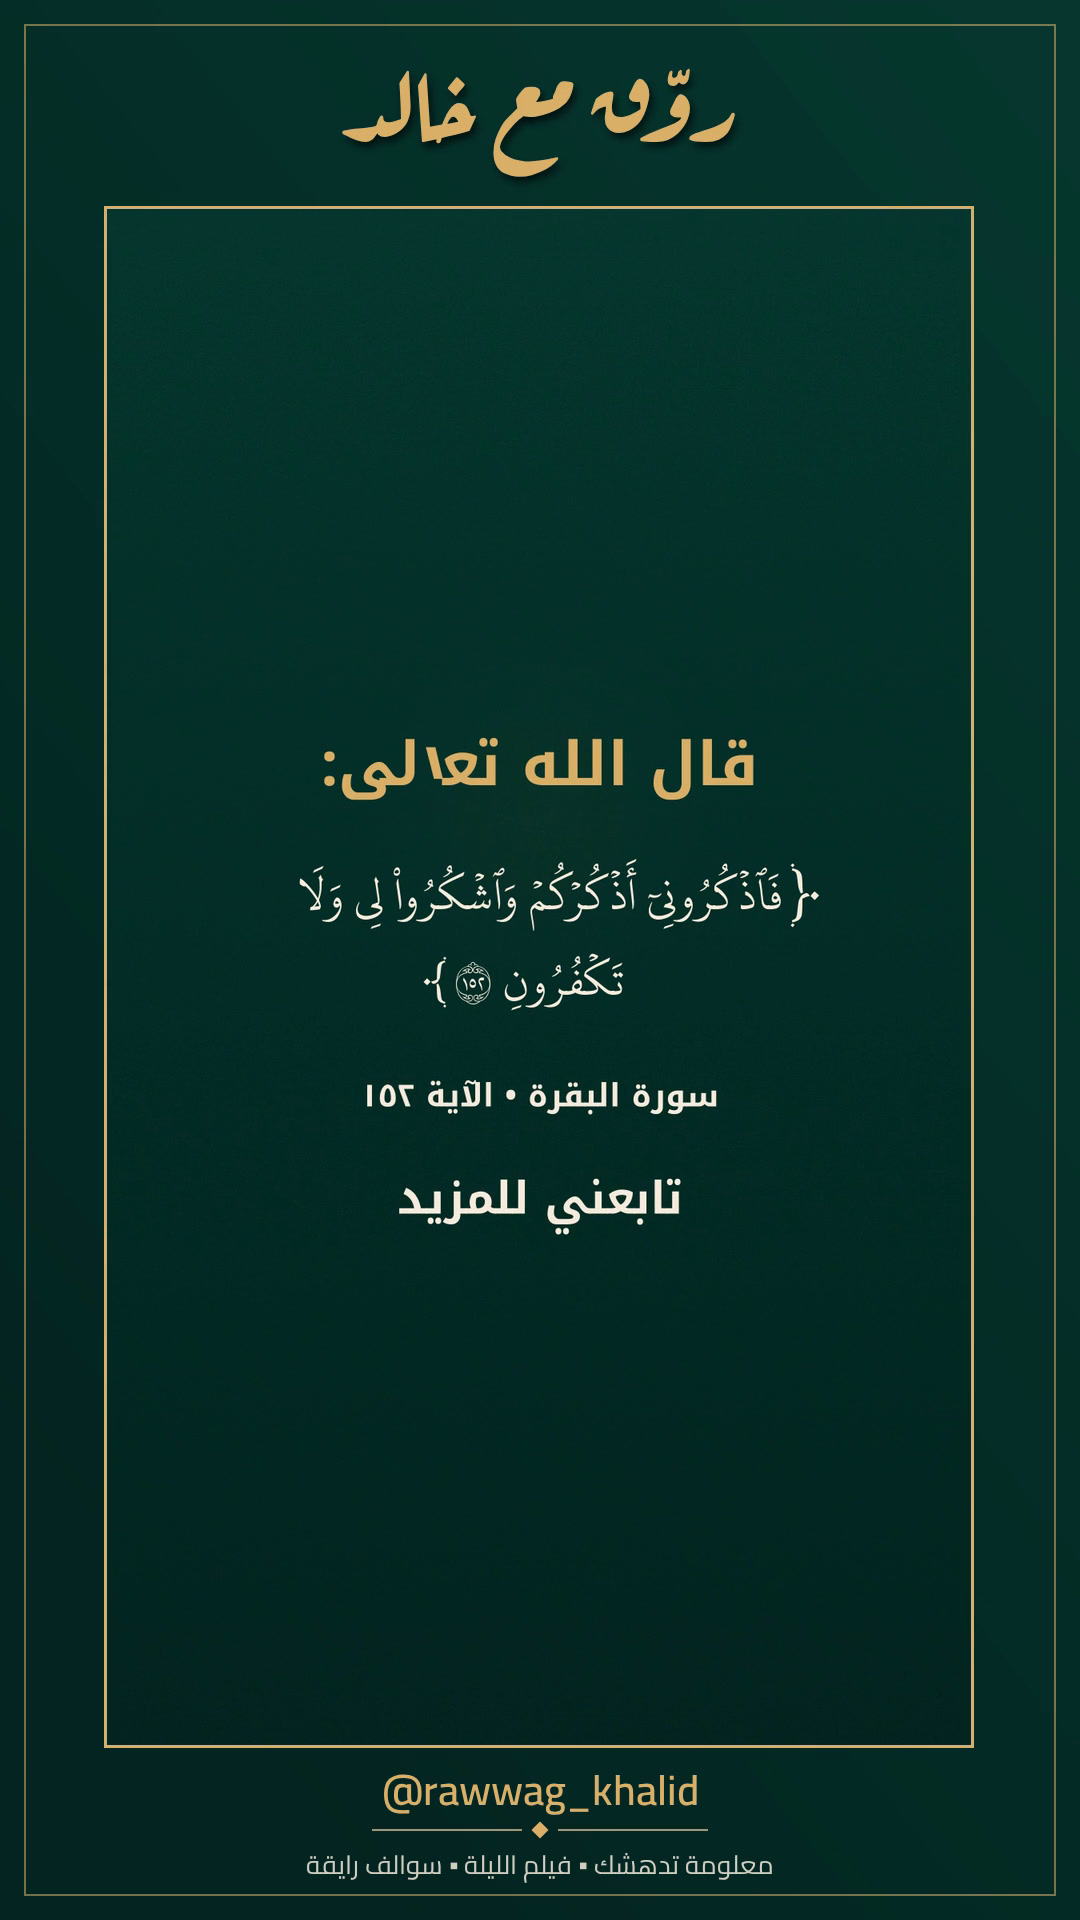
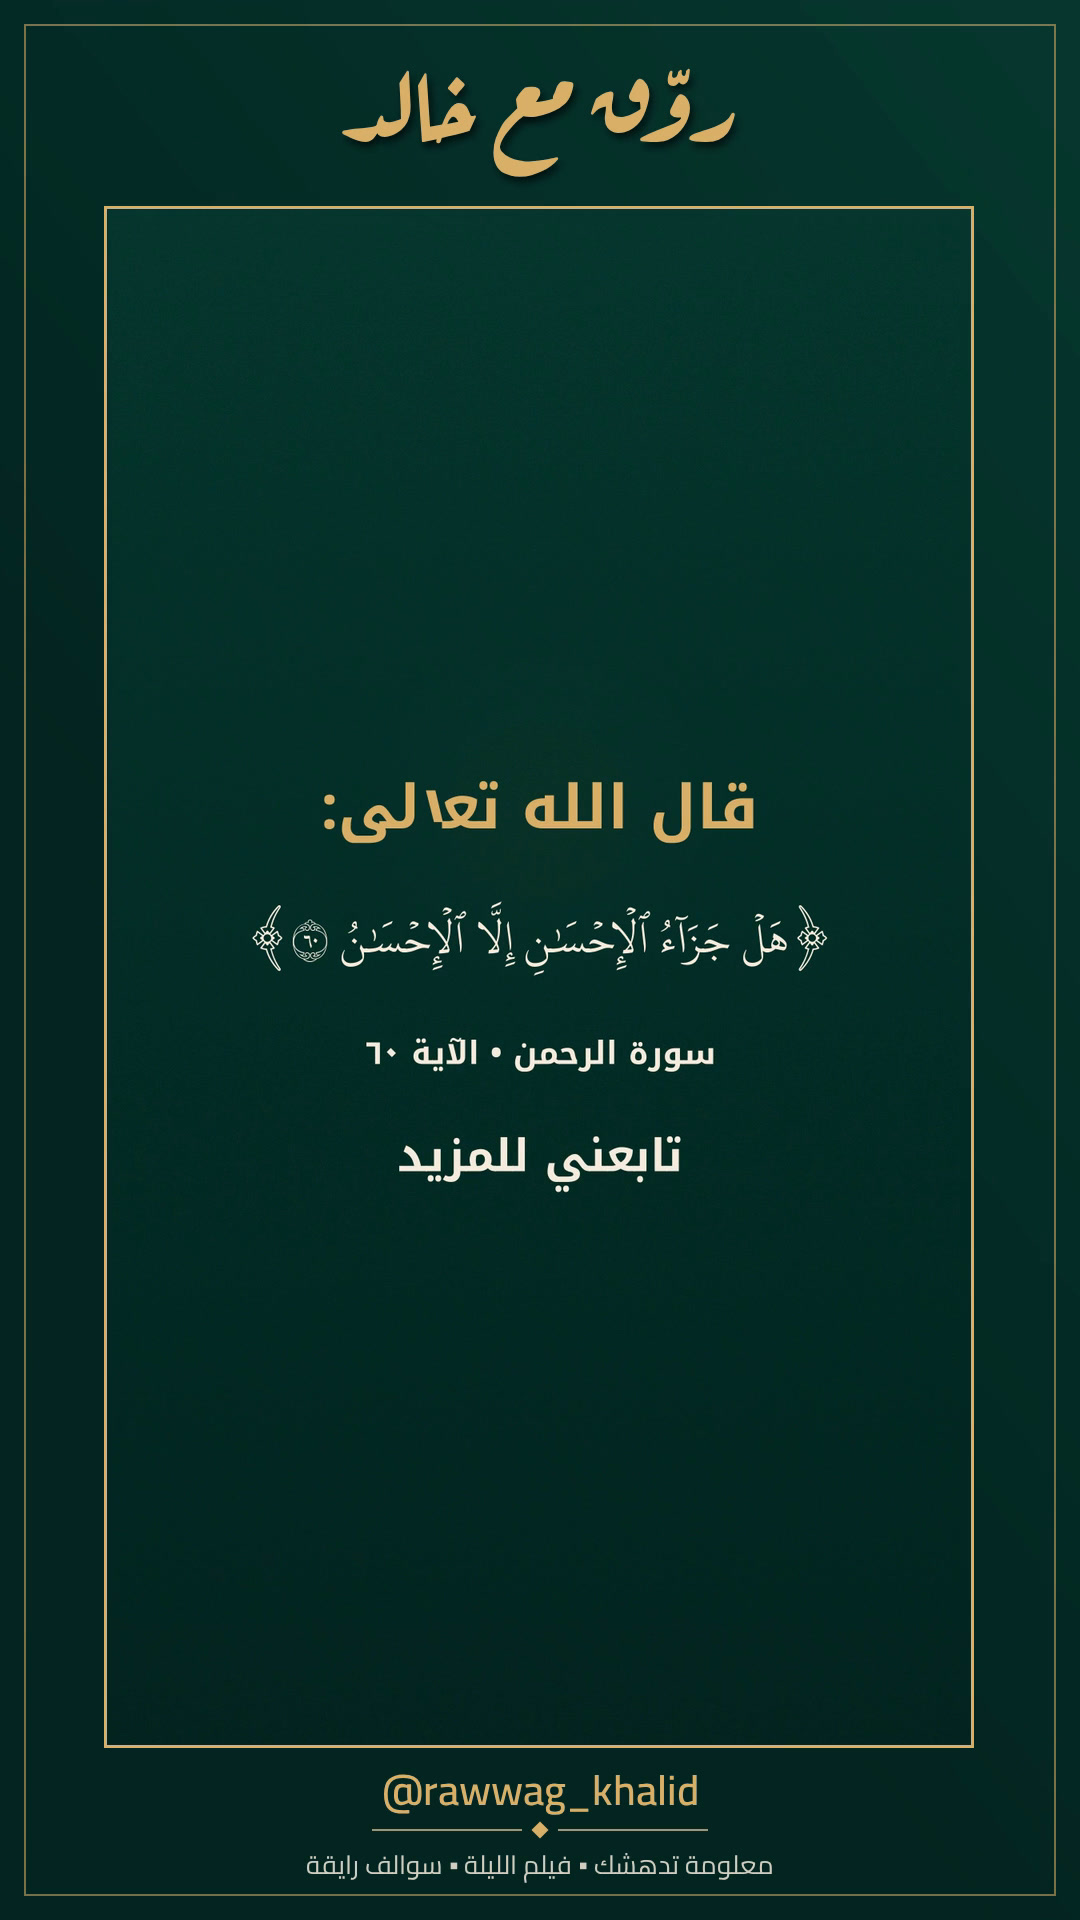
رسم قوسي القرآن بخط أميري المثبت وإضافة معاينة مكبرة

Changed region(s): [[0.2444, 0.375, 0.7639, 0.6562]]

diff --git a/apps/snap-bot/tests/test_quran_brackets.py b/apps/snap-bot/tests/test_quran_brackets.py
@@ -10,7 +10,7 @@ from pathlib import Path
 import pytest
 from test_sacred_render import _alpha_pixels
 
-from snap_bot import faith, sacred_cards
+from snap_bot import faith, quran_font, sacred_cards
 from snap_bot.did_you_know import load_kind, make_content
 
 ROOT = Path(__file__).resolve().parents[3]
@@ -20,6 +20,46 @@ def bounds(pixels):
     assert pixels, "Expected visible ink"
     xs, ys = zip(*pixels, strict=True)
     return min(xs), min(ys), max(xs) + 1, max(ys) + 1
+
+
+def test_bracket_font_is_only_the_pinned_system_amiri():
+    profile = tomllib.loads((ROOT / "config/snap/did_you_know.toml").read_text())["slice"][
+        "profile"
+    ]
+    selected = sacred_cards.ornament_font(profile)
+    assert selected == sacred_cards.AMIRI_REGULAR
+    assert (
+        hashlib.sha256(selected.read_bytes()).hexdigest()
+        == profile["font_files"]["system:Amiri-Regular"]
+    )
+    family = subprocess.run(
+        [profile["fc_query"], "--format=%{family}", str(selected)],
+        capture_output=True,
+        text=True,
+        check=True,
+    ).stdout
+    assert family == "Amiri"
+    fact = load_kind("verse")[0]
+    content = make_content(fact, 0, "verse")
+    evidence = sacred_cards.evidence(content, [content["body"]], 8)
+    assert evidence["font_sha256"] == quran_font.FONT_SHA256
+    assert evidence["ornament_font_sha256"] == profile["font_files"]["system:Amiri-Regular"]
+
+
+@pytest.mark.parametrize("problem", ("missing", "changed_bytes", "changed_pin"))
+def test_bracket_font_has_no_unverified_or_naskh_fallback(tmp_path, monkeypatch, problem):
+    profile = tomllib.loads((ROOT / "config/snap/did_you_know.toml").read_text())["slice"][
+        "profile"
+    ]
+    font = tmp_path / "Amiri-Regular.ttf"
+    if problem != "missing":
+        raw = sacred_cards.AMIRI_REGULAR.read_bytes()
+        font.write_bytes(raw[:-1] + bytes([raw[-1] ^ 1]) if problem == "changed_bytes" else raw)
+    if problem == "changed_pin":
+        profile["font_files"]["system:Amiri-Regular"] = "0" * 64
+    monkeypatch.setattr(sacred_cards, "AMIRI_REGULAR", font)
+    with pytest.raises(ValueError):
+        sacred_cards.ornament_font(profile)
 
 
 @pytest.mark.skipif(not shutil.which("pango-view"), reason="Linux Pango pixel measurement")
@@ -109,3 +149,22 @@ def test_brackets_touch_first_and_last_lines_in_pixels(tmp_path, sample, font_si
             assert 0.75 * text_height <= bracket_height <= text_height
             assert abs((text[1] + text[3]) - (bracket[1] + bracket[3])) <= 2
             assert 0 <= bracket[0] < bracket[2] <= 820 and 0 <= bracket[1] < bracket[3] <= height
+            # Both ornaments have their outer tips facing away from the text:
+            # the middle hook embraces the body on the inside in RTL.
+            middle_y = (bracket[1] + bracket[3]) // 2
+            edge_rows = list(range(bracket[1], bracket[1] + max(1, bracket_height // 6))) + list(
+                range(bracket[3] - max(1, bracket_height // 6), bracket[3])
+            )
+            middle = [
+                x
+                for y in range(middle_y - bracket_height // 10, middle_y + bracket_height // 10 + 1)
+                for x in range(bracket[0], bracket[2])
+                if raw_quoted[y * width + x]
+            ]
+            tips = [
+                x
+                for y in edge_rows
+                for x in range(bracket[0], bracket[2])
+                if raw_quoted[y * width + x]
+            ]
+            assert min(middle) < min(tips) if index == 0 else max(middle) > max(tips)

diff --git a/apps/snap-bot/snap_bot/sacred_cards.py b/apps/snap-bot/snap_bot/sacred_cards.py
@@ -3,6 +3,7 @@
 import hashlib
 import json
 import subprocess
+import tomllib
 from pathlib import Path
 from typing import Any
 
@@ -17,9 +18,27 @@ from .fact_layout import (
     sacred_labels,
     stack_sacred,
 )
+from .font_admission import admit_font
 
 KINDS = {"verse", "adhkar_am", "adhkar_pm"}
 MAX_PAGES = 15  # At most 180 seconds with the existing 12-second page profile.
+AMIRI_REGULAR = Path("/usr/share/fonts/opentype/fonts-hosny-amiri/Amiri-Regular.ttf")
+
+
+def ornament_font(profile: dict[str, Any] | None = None) -> Path:
+    """Admit only the registered system Amiri bytes and their pinned license."""
+    if profile is None:
+        root = Path(__file__).resolve().parents[3]
+        profile = tomllib.loads((root / "config/snap/did_you_know.toml").read_text())["slice"][
+            "profile"
+        ]
+    expected = profile.get("font_files", {}).get("system:Amiri-Regular")
+    if not isinstance(expected, str):
+        raise ValueError("Missing approved Amiri fingerprint")
+    try:
+        return admit_font(AMIRI_REGULAR, expected, profile)
+    except OSError as error:
+        raise ValueError("Missing approved system Amiri font") from error
 
 
 def images(
@@ -122,12 +141,12 @@ def ink_boxes(
 def ornaments(
     image: Path, size: tuple[int, int], profile: dict[str, Any], width: int, height: int
 ) -> tuple[Path, tuple[int, int]]:
-    """The KFGQPC font lacks FD3E/FD3F: draw only these decorative glyphs in Naskh.
+    """The KFGQPC font lacks FD3E/FD3F: draw only these decorative glyphs in Amiri.
 
     The Quran body remains a separate, unmodified KFGQPC image. Neither glyph
     fallback nor substitutions are used for any character of the source text.
     """
-    font = quran_font.font_for("hadith")
+    font = ornament_font(profile)
     ensure_glyphs(
         "\ufd3f\ufd3e", run([profile["fc_query"], "--format=%{charset}", str(font)], 5).stdout
     )
@@ -204,10 +223,8 @@ def ornaments(
 
 def evidence(content: dict[str, Any], parts: list[str], seconds: float) -> dict[str, Any]:
     font = quran_font.font_for(_faith_item(content))
-    ornament_font = (
-        quran_font.font_for("hadith")
-        if page_display_body(content, content["body"]) != content["body"]
-        else None
+    ornament_path = (
+        ornament_font() if page_display_body(content, content["body"]) != content["body"] else None
     )
     return {
         "kind": content["kind"],
@@ -215,8 +232,8 @@ def evidence(content: dict[str, Any], parts: list[str], seconds: float) -> dict[
         "pages": parts,
         "page_seconds": seconds,
         "font_sha256": hashlib.sha256(font.read_bytes()).hexdigest(),
-        "ornament_font_sha256": hashlib.sha256(ornament_font.read_bytes()).hexdigest()
-        if ornament_font
+        "ornament_font_sha256": hashlib.sha256(ornament_path.read_bytes()).hexdigest()
+        if ornament_path
         else None,
     }
 

diff --git a/docs/QURAN-CARDS-20261031.md b/docs/QURAN-CARDS-20261031.md
@@ -13,8 +13,10 @@
 
 يختار `quran_font.font_for` الخط لكل بند: خط المجمع للقرآن، وNoto Naskh للمرويات
 داخل الأذكار. تُفحص بصمة الخط وتغطية كل محارف النص قبل الرسم. خط المجمع لا
-يحتوي رمزي القوسين المزخرفين؛ لذلك يُرسم القوسان وحدهما في طبقة Noto Naskh
-منفصلة، خارج صورة النص القرآني، دون استبدال خط أي حرف من الآية.
+يحتوي رمزي القوسين المزخرفين؛ لذلك يُرسم القوسان وحدهما في طبقة Amiri
+منفصلة، خارج صورة النص القرآني، دون استبدال خط أي حرف من الآية. يُقبل Amiri
+من حزمة النظام فقط بعد مطابقة بصمة `system:Amiri-Regular` وترخيصها في السجل
+المثبت؛ يُرفض الخط المفقود أو المختلف دون رجوع تلقائي إلى Noto Naskh.
 
 للآية عنوان «قال الله تعالى:» واسم السورة ورقم الآية أسفلها. للأذكار اسم الفترة
 وعدد التكرار من البيانات الأصلية. تبقى هذه البيانات والزخارف خارج النص المقفل.
